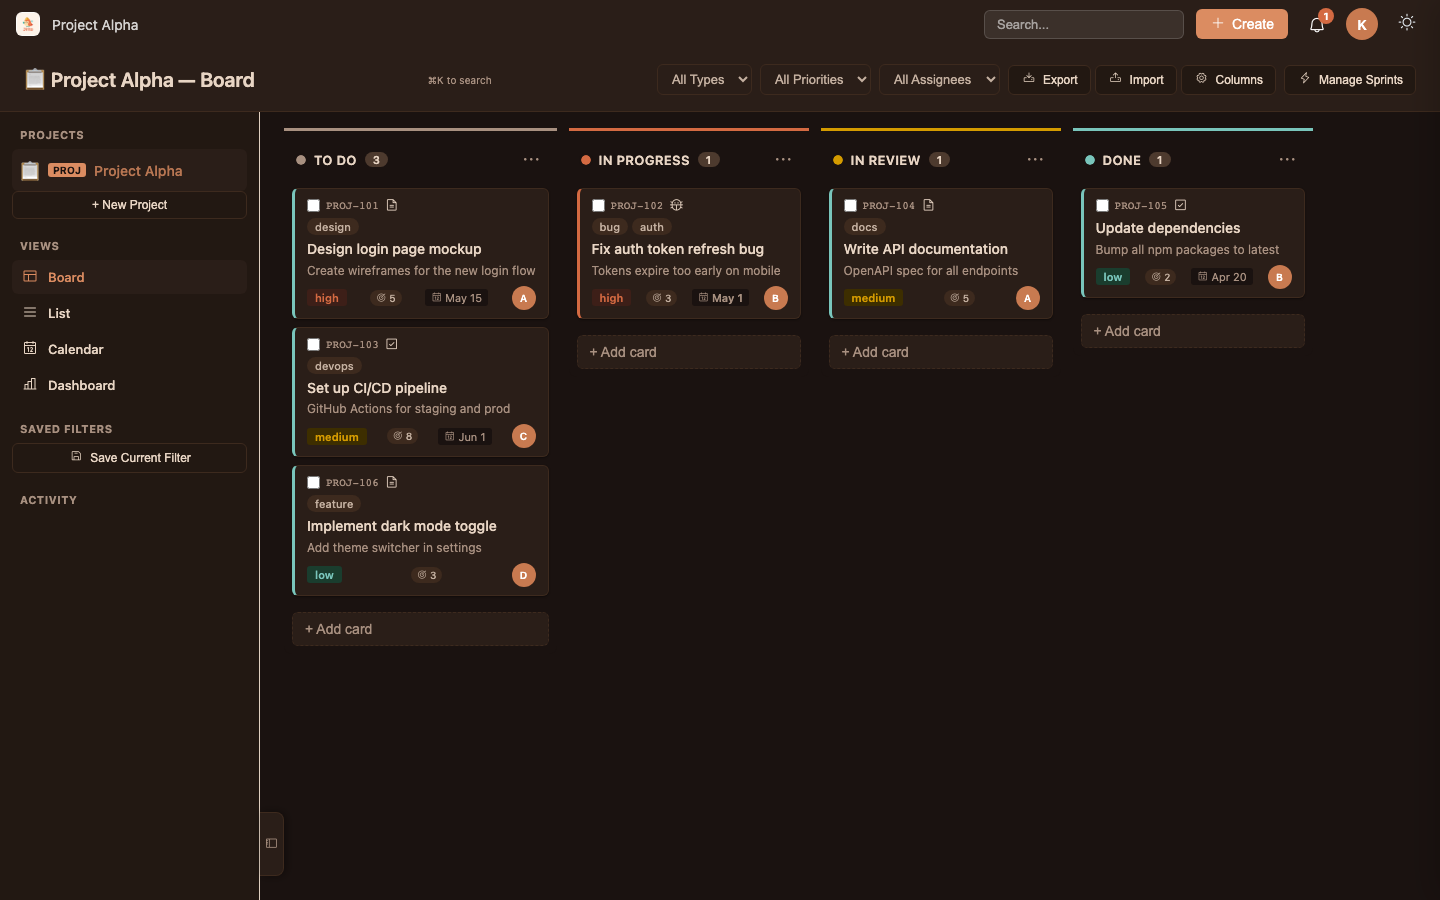
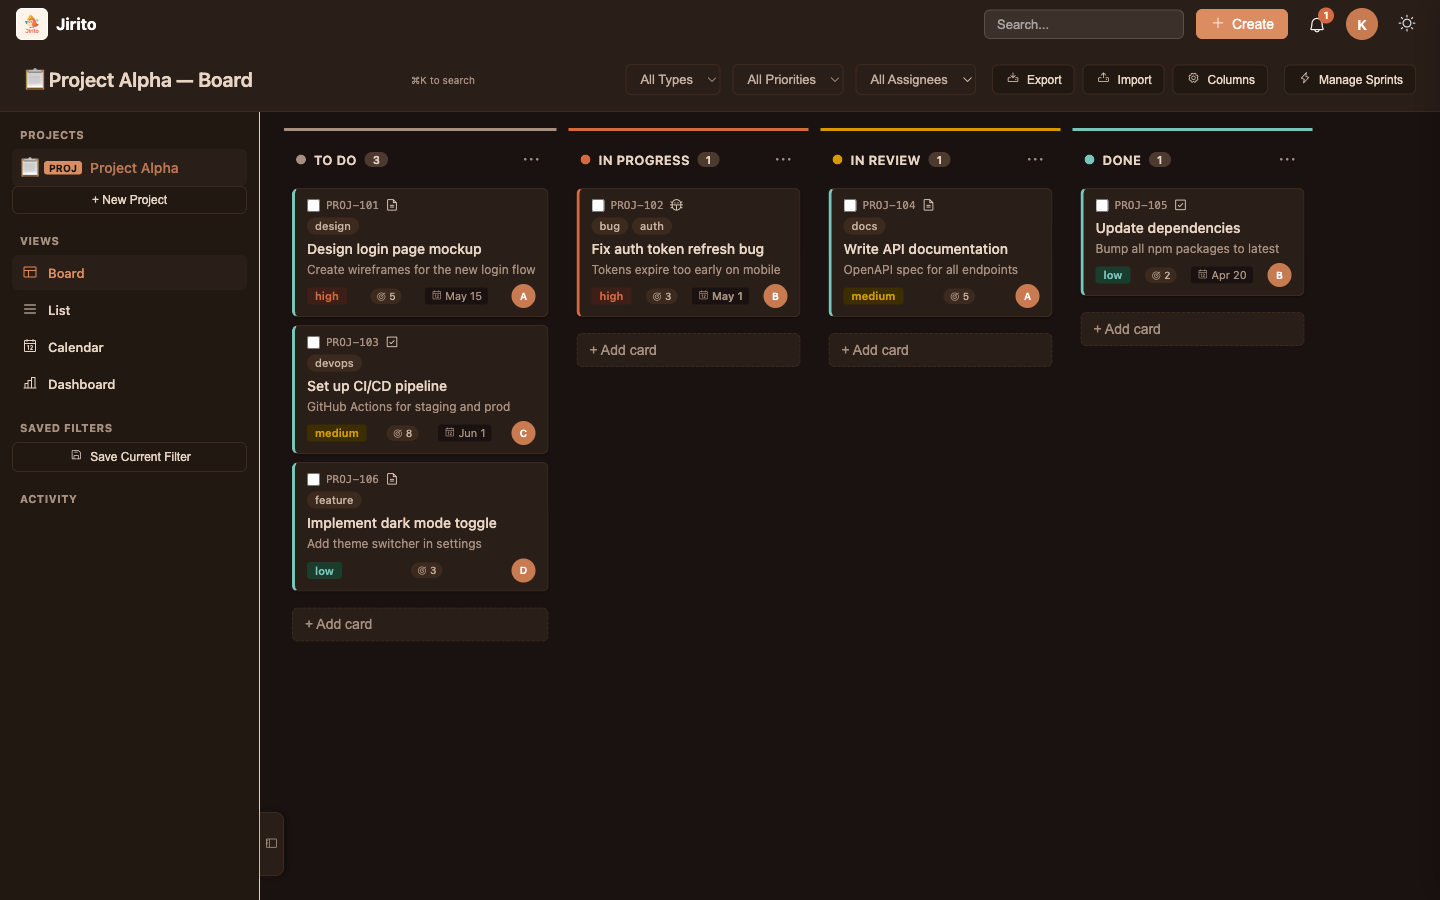
docs: update README to reflect current project state and fix List View screenshots
- Replace incorrect List View screenshots (were showing Board view)
  with fresh Playwright-captured screenshots for light and dark mode
- Update Tech Stack: localStorage keys from 8 to 9, add CI (GitHub Actions)
- Update Project Structure: rename jira-clone to jirito, add playwright/
  and .github/workflows/ directories, add package-lock.json
- Update Data Model: list all 9 localStorage keys explicitly
- Update Stats: total lines from ~5,200 to ~5,600
- Update Roadmap: mark completed items (ESLint, lock file, XSS fix,
  debounced save, GitHub Actions CI) as done

diff --git a/README.md b/README.md
@@ -124,9 +124,10 @@
 | **Language** | JavaScript (ES Modules) |
 | **Styling** | CSS (light + dark themes) |
 | **Icons** | Lucide (CDN) |
-| **Storage** | `localStorage` (8 keys) |
+| **Storage** | `localStorage` (9 keys) |
 | **Testing** | Playwright (~150 E2E tests) |
 | **Formatting** | ESLint + Prettier |
+| **CI** | GitHub Actions (`test.yml`) |
 
 ## 🚀 Getting Started
 
@@ -157,41 +158,49 @@ npm test
 ## 📁 Project Structure
 
 ```
-jira-clone/
+jirito/
 ├── index.html              # Single-page application entry
 ├── styles.css              # All styles (light + dark themes)
 ├── public/
 │   └── jirito_logo.png     # Project logo
 ├── src/
-│   ├── state.js            # State management (LJ namespace)
+│   ├── state.js            # State management (LJ namespace) + localStorage sync
 │   ├── render.js           # DOM rendering functions
 │   ├── events.js           # Event handlers
-│   ├── data.js             # Data layer / localStorage sync
+│   ├── data.js             # Import/export data operations
 │   ├── utils.js            # Utility functions
 │   └── main.js             # Application bootstrap
 ├── tests/                  # Playwright E2E tests (~150 tests)
 ├── screenshots/            # Application screenshots
 ├── docs/
 │   └── PROJECT.md          # Project study document
-├── playwright/             # Playwright config
+├── playwright/
+│   ├── playwright.config.mjs
+│   └── playwright-global-setup.mjs
+├── .github/
+│   └── workflows/
+│       └── test.yml        # GitHub Actions CI
 ├── .eslintrc.json          # ESLint configuration
 ├── .prettierrc             # Prettier configuration
-└── package.json
+├── package.json
+└── package-lock.json
 ```
 
 ## 🗄️ Data Model
 
-Jirito stores data in `localStorage` under 8 keys:
+Jirito stores data in `localStorage` under 9 keys:
 
 | Key | Content |
 |-----|---------|
 | `jirito-issues` | Issue objects (title, status, assignee, priority, due date, etc.) |
-| `jirito-projects` | Project definitions |
 | `jirito-comments` | Issue comments |
+| `jirito-projects` | Project definitions |
+| `jirito-currentProject` | Currently selected project |
+| `jirito-savedFilters` | Saved filter configurations |
+| `jirito-activity` | Activity log |
+| `jirito-trash` | Soft-deleted issues |
 | `jirito-sprints` | Sprint data |
-| `jirito-custom-columns` | Custom column configurations |
-| `jirito-settings` | User preferences (theme, sidebar state, etc.) |
-| `jirito-...` | Additional configuration keys |
+| `jirito-customColumns` | Custom column configurations |
 
 > ⚠️ **No schema validation or transactions** — data is stored as plain JSON.
 
@@ -206,7 +215,7 @@ Jirito stores data in `localStorage` under 8 keys:
 
 | Metric | Value |
 |--------|-------|
-| Total Lines | ~5,200 |
+| Total Lines | ~5,600 |
 | Source Files | 7 (index.html, styles.css, 6 JS modules) |
 | E2E Tests | ~150 |
 | Unit Tests | None |
@@ -215,16 +224,16 @@ Jirito stores data in `localStorage` under 8 keys:
 ## 🧭 Roadmap
 
 ### High Priority
-- [ ] Add ESLint + Prettier (lock in formatting) ✅
-- [ ] Add lock file (`package-lock.json`)
-- [ ] Fix markdown XSS (block `javascript:` URLs)
-- [ ] Add `saveState()` debouncing for bulk operations
+- [x] Add ESLint + Prettier (lock in formatting) ✅
+- [x] Add lock file (`package-lock.json`) ✅
+- [x] Fix markdown XSS (block `javascript:` URLs) ✅
+- [x] Add `saveState()` debouncing for bulk operations ✅
 
 ### Medium Priority
 - [ ] TypeScript migration for type safety
 - [ ] Replace `LJ` global with proper state management
 - [ ] Add virtual scrolling for 100+ issues
-- [ ] Add GitHub Actions CI for test automation
+- [x] Add GitHub Actions CI for test automation ✅
 
 ### Low Priority
 - [ ] Extract duplicated `renderDashboard` code